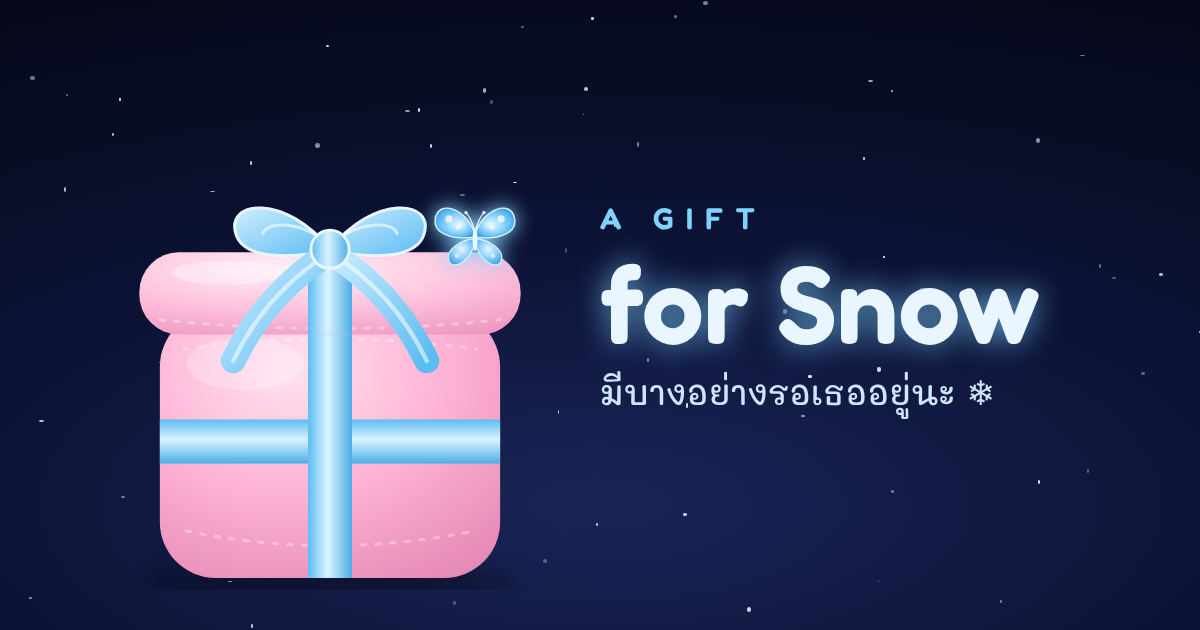
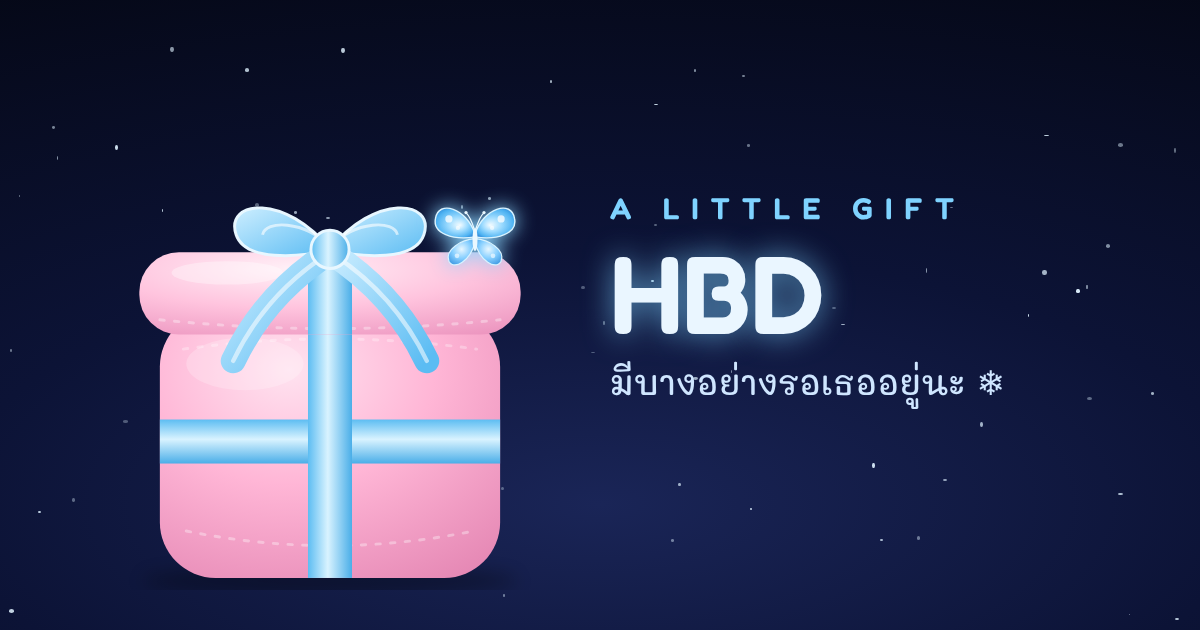
Use HBD as page title and link preview
Claude-Session: https://claude.ai/code/session_01BfufCDxRA9fLkpWRYNRS27

Changed region(s): [[0.4933, 0.3921, 0.8942, 0.6635], [0.4933, 0.3016, 0.6783, 0.3619], [0.7092, 0.3016, 0.8017, 0.3619]]

diff --git a/index.html b/index.html
@@ -3,17 +3,17 @@
 <head>
 <meta charset="utf-8">
 <meta name="viewport" content="width=device-width, initial-scale=1, maximum-scale=1, user-scalable=no, viewport-fit=cover">
-<title>for Snow 🎁</title>
+<title>HBD 🎁</title>
 <meta name="description" content="มีบางอย่างรอเธออยู่นะ · Something is waiting for you">
 <meta property="og:type" content="website">
-<meta property="og:title" content="for Snow 🎁">
+<meta property="og:title" content="HBD 🎁">
 <meta property="og:description" content="มีบางอย่างรอเธออยู่นะ · Something is waiting for you">
-<meta property="og:image" content="og-image.png">
+<meta property="og:image" content="https://fireh2o.github.io/hbd/og-image.png">
 <meta property="og:image:width" content="1200">
 <meta property="og:image:height" content="630">
 <meta name="twitter:card" content="summary_large_image">
-<meta name="twitter:title" content="for Snow 🎁">
-<meta name="twitter:image" content="og-image.png">
+<meta name="twitter:title" content="HBD 🎁">
+<meta name="twitter:image" content="https://fireh2o.github.io/hbd/og-image.png">
 <meta name="theme-color" content="#060a1c">
 <meta name="apple-mobile-web-app-capable" content="yes">
 <meta name="format-detection" content="telephone=no">
